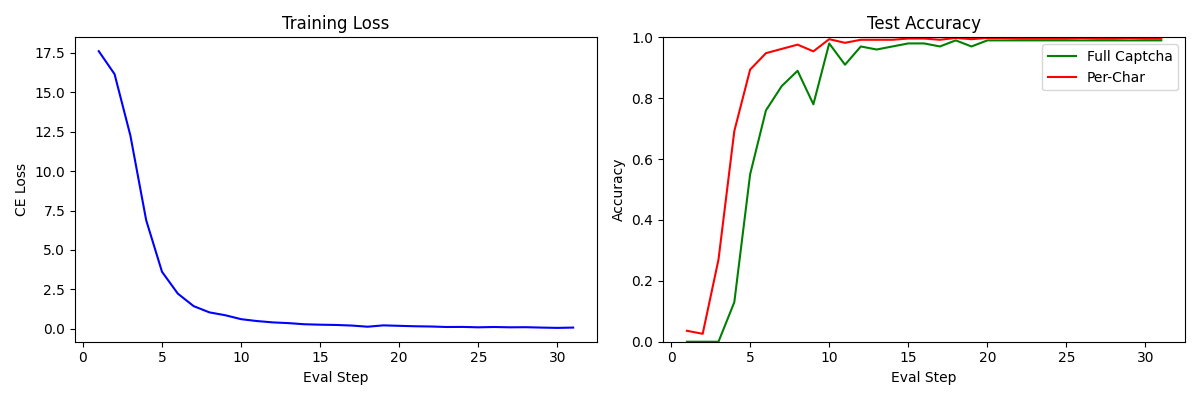
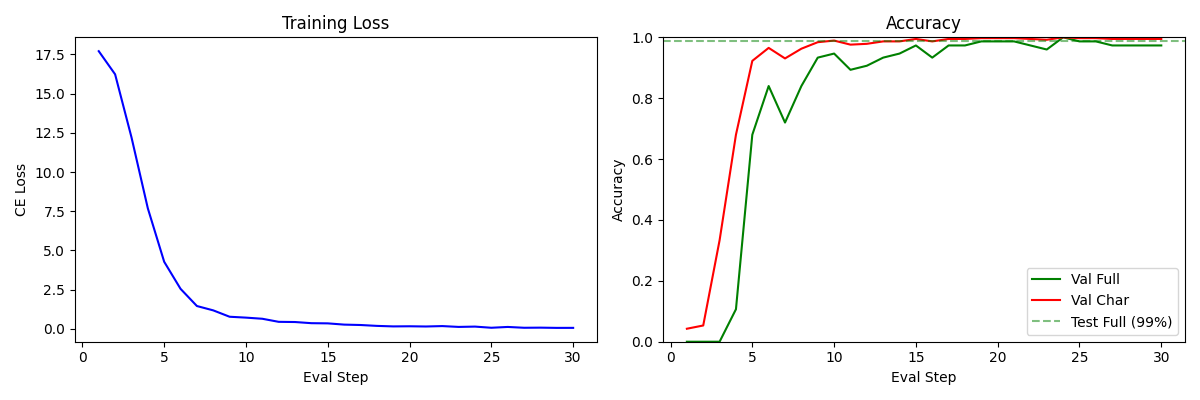
docs: update to 3-way train/val/test split with corrected test results

diff --git a/GUIDELINE.md b/GUIDELINE.md
@@ -55,7 +55,7 @@ uv add torch torchvision onnx onnxruntime onnxscript pillow matplotlib numpy
 
 ### Data Augmentation
 
-Heavy augmentation to compensate for the small dataset (400 train / 100 test):
+Heavy augmentation to compensate for the small dataset:
 - Random rotation (-15 to 15 degrees)
 - Random affine shift
 - Random scale (0.85x to 1.15x)
@@ -111,25 +111,44 @@ Since captcha length is **fixed at 5**, CTC's variable-length flexibility is unn
 
 No LSTM, no CTC — simpler, faster, and more accurate for fixed-length output.
 
+### Dataset Split
+
+The v2 training uses a proper 3-way split to avoid data leakage from model selection:
+
+```bash
+uv run python split_dataset.py
+```
+
+| Split | Count | Role |
+|---|---|---|
+| `data/train/` | 350 (70%) | Gradient updates |
+| `data/val/` | 75 (15%) | Model selection (best checkpoint) |
+| `data/test/` | 75 (15%) | Held-out, evaluated only at the end |
+
+The v1 approach used an 80/20 train/test split where the "test" set was also used for model selection every 5 epochs — effectively making it a validation set with no true held-out evaluation.
+
 ### Results
 
 | Metric | v1 (CTC) | v2 (Multi-Head) |
 |---|---|---|
-| Full captcha accuracy | 95.0% | **99.0%** |
-| Per-character accuracy | 96.4% | **99.8%** |
-| Errors on test set | 5 | **1** |
+| Train accuracy | — | **99.4%** |
+| Val accuracy | — | **100.0%** |
+| Test accuracy (held-out) | 95.0% | **98.7%** |
+| Per-character accuracy (test) | 96.4% | **99.7%** |
 | Model parameters | 1,450,721 | **1,328,352** |
 | Model size | 5.6 MB | **5.1 MB** |
 
-The single remaining error: `AW79Q` predicted as `AWY9Q` — a genuine visual ambiguity between `7` and `Y` under heavy rotation and noise.
+The single remaining test error: `2W7HT` predicted as `2WTHT` — a genuine visual ambiguity between `7` and `T` under heavy rotation and noise.
 
 All 5 previous CTC repeat errors (`DD`, `HH`, `AA`, `WW`, `88`) are now correctly predicted.
+
+Early stopping (patience=30 epochs) halted training at epoch 145 to avoid overfitting. The small train-test gap (99.4% vs 98.7%) confirms good generalization.
 
 ---
 
 ## 5. ONNX Export
 
-**Script:** `export_onnx.py`
+**Script:** `export_onnx.py` (standalone, legacy) or inline in `train_v2.py`
 
 The trained PyTorch model is exported to ONNX format for edge deployment:
 - Input: `image` — shape `(batch, 1, 64, 160)`, float32, normalized to [-1, 1]
@@ -173,9 +192,18 @@ For each of the 5 output heads, take `argmax` and map index to character using t
 
 ## 7. Final Validation
 
-Full dataset inference (all 500 images): **499/500 correct (99.8%)**
+Held-out test set inference (75 images never used for training or model selection):
 
-The held-out test accuracy (100 images never seen during training): **99.0%**
+```bash
+uv run python inference.py data/test/
+# Accuracy: 74/75 (98.7%)
+```
+
+| Split | Full Accuracy | Char Accuracy |
+|---|---|---|
+| Train (350) | 99.4% | 99.9% |
+| Val (75) | 100.0% | 100.0% |
+| **Test (75)** | **98.7%** | **99.7%** |
 
 ---
 
@@ -183,14 +211,19 @@ The held-out test accuracy (100 images never seen during training): **99.0%**
 
 ```
 captcha_finetune/
-  ProcessedCaptchas/       # 500 labeled captcha images
+  ProcessedCaptchas/       # Raw dataset (500 labeled captcha images)
+  data/
+    train/                 # Training split (350 images)
+    val/                   # Validation split (75 images)
+    test/                  # Held-out test split (75 images)
   output/
     best_model_v2.pth      # PyTorch weights (5.1 MB)
     captcha_model_v2.onnx  # ONNX model for deployment (5.1 MB)
     training_plot_v2.png   # Loss and accuracy curves
-  train.py                 # v1: CRNN + CTC (95% accuracy)
-  train_v2.py              # v2: Multi-Head Classification (99% accuracy)
-  export_onnx.py           # Standalone ONNX export script
+  split_dataset.py         # Splits ProcessedCaptchas/ into data/{train,val,test}/
+  train.py                 # v1: CRNN + CTC (95% accuracy, deprecated)
+  train_v2.py              # v2: Multi-Head Classification (98.7% test accuracy)
+  export_onnx.py           # Standalone ONNX export script (v1, legacy)
   inference.py             # ONNX inference script
   pyproject.toml           # uv project config with dependencies
 ```
@@ -201,8 +234,10 @@ captcha_finetune/
 
 1. **Match architecture to problem structure.** Fixed-length output does not need CTC. Multi-head classification is simpler, faster, and more accurate for this case.
 
-2. **Heavy data augmentation is critical with small datasets.** 400 training images with aggressive augmentation achieved 99% accuracy without any synthetic data generation.
+2. **Heavy data augmentation is critical with small datasets.** 350 training images with aggressive augmentation achieved 98.7% held-out test accuracy without any synthetic data generation.
 
 3. **Error analysis drives improvement.** Identifying that all v1 errors were CTC repeat-collapses pointed directly to the architectural fix, rather than needing more data or hyperparameter tuning.
 
 4. **Start simple, iterate on evidence.** Phase 1 (CTC) was a reasonable starting point. Its failure mode revealed the optimal solution (multi-head), which would have been harder to justify without the comparison.
+
+5. **Use a proper train/val/test split.** Using the "test" set for model selection inflates reported accuracy. A 3-way split (70/15/15) with the test set evaluated only once gives a trustworthy generalization estimate. Early stopping on the validation set also prevents overfitting.

diff --git a/README.md b/README.md
@@ -1,13 +1,15 @@
 # Captcha Solver
 
-A lightweight captcha recognition model achieving **99% accuracy** on 5-character alphanumeric captchas, trained on just 500 images.
+A lightweight captcha recognition model achieving **98.7% accuracy** on 5-character alphanumeric captchas, trained on just 500 images with a proper train/val/test split.
 
 ## Results
 
 | Metric | Value |
 |---|---|
-| Full captcha accuracy (held-out test) | **99.0%** |
-| Per-character accuracy | **99.8%** |
+| Train accuracy | **99.4%** (350 images) |
+| Validation accuracy | **100.0%** (75 images) |
+| Test accuracy (held-out) | **98.7%** (75 images) |
+| Per-character accuracy (test) | **99.7%** |
 | Model size (ONNX) | **5.1 MB** |
 | Inference runtime | ONNX Runtime (CPU) |
 | Character set | `23456789ABCDEFGHJKLMNPQRSTUVWXYZ` (32 chars) |
@@ -41,6 +43,10 @@ uv run python inference.py ProcessedCaptchas/
 ### Train
 
 ```bash
+# Step 1: Split dataset into train/val/test folders
+uv run python split_dataset.py
+
+# Step 2: Train (uses data/train for training, data/val for model selection)
 uv run python train_v2.py
 ```
 
@@ -78,6 +84,15 @@ ProcessedCaptchas/
   ...
 ```
 
+Run `uv run python split_dataset.py` to create the train/val/test split:
+
+```
+data/
+  train/    # 350 images (70%) — used for gradient updates
+  val/      #  75 images (15%) — used for model selection (best checkpoint)
+  test/     #  75 images (15%) — held-out, evaluated only at the end
+```
+
 Requirements:
 - Grayscale or RGB PNG images
 - Exactly 5 characters per label
@@ -87,14 +102,19 @@ Requirements:
 
 ```
 captcha_finetune/
-  ProcessedCaptchas/        # Dataset (500 labeled images)
+  ProcessedCaptchas/        # Raw dataset (500 labeled images)
+  data/
+    train/                  # Training split (350 images)
+    val/                    # Validation split (75 images)
+    test/                   # Held-out test split (75 images)
   output/
     best_model_v2.pth       # Trained PyTorch weights
     captcha_model_v2.onnx   # ONNX model for deployment
     training_plot_v2.png    # Training curves
-  train_v2.py               # Training script
+  split_dataset.py          # Dataset splitter
+  train_v2.py               # Training script (multi-head CNN)
   inference.py              # ONNX inference script
-  export_onnx.py            # Standalone ONNX export
+  export_onnx.py            # Standalone ONNX export (v1, legacy)
   GUIDELINE.md              # Detailed step-by-step development guide
   pyproject.toml            # Dependencies
 ```
